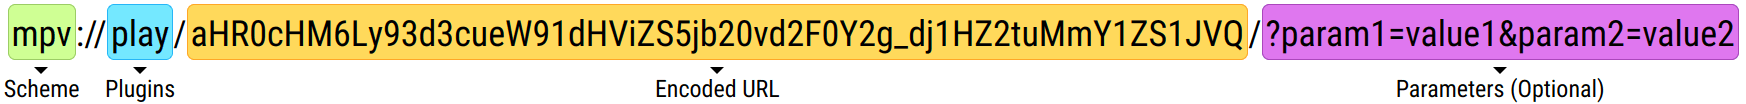
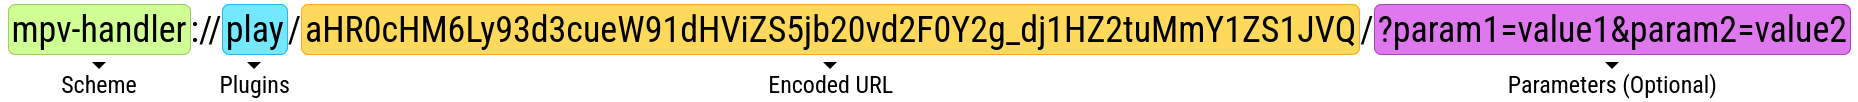
feat!: change protocol scheme to mpv-handler/mpv-handler-debug
To avoid conflicts with the mpv:// protocol provided by mpv.

BREAKING CHANGE: mpv:// and mpv-debug:// no longer available

diff --git a/share/proto.html b/share/proto.html
@@ -4,7 +4,7 @@
       body {
         height: fit-content;
         width: max-content;
-        padding: 5px 5px 32px 5px;
+        padding: 5px 5px 10px 5px;
       }
       p {
         font-family: "Roboto Condensed";
@@ -71,8 +71,8 @@
   </head>
   <body>
     <p>
-      <span class="scheme">mpv</span>://<span class="plugins">play</span>/<span
-        class="url"
+      <span class="scheme">mpv-handler</span>://<span class="plugins">play</span
+      >/<span class="url"
         >aHR0cHM6Ly93d3cueW91dHViZS5jb20vd2F0Y2g_dj1HZ2tuMmY1ZS1JVQ</span
       >/<span class="params">?param1=value1&amp;param2=value2</span>
     </p>

diff --git a/src/protocol.rs b/src/protocol.rs
@@ -3,8 +3,8 @@ use crate::plugins::Plugins;
 
 #[derive(Debug, PartialEq)]
 pub enum Schemes {
-    Mpv,
-    MpvDebug,
+    MpvHandler,
+    MpvHandlerDebug,
 }
 
 const SAFE_PROTOS: [&str; 11] = [
@@ -14,8 +14,8 @@ const SAFE_PROTOS: [&str; 11] = [
 /// Protocol of mpv-handler
 ///
 /// ```
-/// mpv://PLUGINS/ENCODED_URL/?PARAMETERS=VALUES
-/// mpv-debug://PLUGINS/ENCODED_URL/?PARAMETERS=VALUES
+/// mpv-handler://PLUGINS/ENCODED_URL/?PARAMETERS=VALUES
+/// mpv-handler-debug://PLUGINS/ENCODED_URL/?PARAMETERS=VALUES
 /// ```
 ///
 /// PLUGINS:
@@ -62,11 +62,11 @@ impl Protocol<'_> {
 
         let mut i: usize;
 
-        // Check scheme `mpv://` and `mpv-debug://`
+        // Check scheme `mpv-handler://` and `mpv-handler-debug://`
         (i, scheme) = if let Some(s) = arg.find("://") {
             match &arg[..s] {
-                "mpv" => (s + "://".len(), Schemes::Mpv),
-                "mpv-debug" => (s + "://".len(), Schemes::MpvDebug),
+                "mpv-handler" => (s + "://".len(), Schemes::MpvHandler),
+                "mpv-handler-debug" => (s + "://".len(), Schemes::MpvHandlerDebug),
                 _ => return Err(Error::IncorrectProtocol(arg.to_string())),
             }
         } else {
@@ -167,9 +167,9 @@ fn decode_url(data: &str) -> Result<String, Error> {
 fn test_protocol_parse() {
     // All parameters
     let proto =
-        Protocol::parse("mpv://play/aHR0cHM6Ly93d3cueW91dHViZS5jb20vd2F0Y2g_dj1HZ2tuMmY1ZS1JVQ/?cookies=www.youtube.com.txt&profile=low-latency&quality=1080p&v_codec=av01&v_title=VGl0bGU&subfile=aHR0cDovL2V4YW1wbGUuY29tL2VuLmFzcw&startat=233").unwrap();
+        Protocol::parse("mpv-handler://play/aHR0cHM6Ly93d3cueW91dHViZS5jb20vd2F0Y2g_dj1HZ2tuMmY1ZS1JVQ/?cookies=www.youtube.com.txt&profile=low-latency&quality=1080p&v_codec=av01&v_title=VGl0bGU&subfile=aHR0cDovL2V4YW1wbGUuY29tL2VuLmFzcw&startat=233").unwrap();
 
-    assert_eq!(proto.scheme, Schemes::Mpv);
+    assert_eq!(proto.scheme, Schemes::MpvHandler);
     assert_eq!(proto.plugin, Plugins::Play);
     assert_eq!(proto.url, "https://www.youtube.com/watch?v=Ggkn2f5e-IU");
     assert_eq!(proto.cookies, Some("www.youtube.com.txt"));
@@ -181,30 +181,32 @@ fn test_protocol_parse() {
     assert_eq!(proto.startat, Some("233"));
 
     // No parameter and last slash
-    let proto =
-        Protocol::parse("mpv://play/aHR0cHM6Ly93d3cueW91dHViZS5jb20vd2F0Y2g_dj1HZ2tuMmY1ZS1JVQ")
-            .unwrap();
+    let proto = Protocol::parse(
+        "mpv-handler://play/aHR0cHM6Ly93d3cueW91dHViZS5jb20vd2F0Y2g_dj1HZ2tuMmY1ZS1JVQ",
+    )
+    .unwrap();
 
-    assert_eq!(proto.scheme, Schemes::Mpv);
+    assert_eq!(proto.scheme, Schemes::MpvHandler);
     assert_eq!(proto.plugin, Plugins::Play);
     assert_eq!(proto.url, "https://www.youtube.com/watch?v=Ggkn2f5e-IU");
 
     // No parameter and protocol `mpv`
-    let proto =
-        Protocol::parse("mpv://play/aHR0cHM6Ly93d3cueW91dHViZS5jb20vd2F0Y2g_dj1HZ2tuMmY1ZS1JVQ/")
-            .unwrap();
-
-    assert_eq!(proto.scheme, Schemes::Mpv);
-    assert_eq!(proto.plugin, Plugins::Play);
-    assert_eq!(proto.url, "https://www.youtube.com/watch?v=Ggkn2f5e-IU");
-
-    // No parameter and protocol `mpv-debug`
     let proto = Protocol::parse(
-        "mpv-debug://play/aHR0cHM6Ly93d3cueW91dHViZS5jb20vd2F0Y2g_dj1HZ2tuMmY1ZS1JVQ",
+        "mpv-handler://play/aHR0cHM6Ly93d3cueW91dHViZS5jb20vd2F0Y2g_dj1HZ2tuMmY1ZS1JVQ/",
     )
     .unwrap();
 
-    assert_eq!(proto.scheme, Schemes::MpvDebug);
+    assert_eq!(proto.scheme, Schemes::MpvHandler);
+    assert_eq!(proto.plugin, Plugins::Play);
+    assert_eq!(proto.url, "https://www.youtube.com/watch?v=Ggkn2f5e-IU");
+
+    // No parameter and protocol `mpv-handler-debug`
+    let proto = Protocol::parse(
+        "mpv-handler-debug://play/aHR0cHM6Ly93d3cueW91dHViZS5jb20vd2F0Y2g_dj1HZ2tuMmY1ZS1JVQ",
+    )
+    .unwrap();
+
+    assert_eq!(proto.scheme, Schemes::MpvHandlerDebug);
     assert_eq!(proto.plugin, Plugins::Play);
     assert_eq!(proto.url, "https://www.youtube.com/watch?v=Ggkn2f5e-IU");
 }

diff --git a/src/plugins/play.rs b/src/plugins/play.rs
@@ -68,7 +68,7 @@ pub fn exec(proto: &Protocol, config: &Config) -> Result<(), Error> {
     }
 
     // Print binaries and options list (in debug build)
-    if &proto.scheme == &crate::protocol::Schemes::MpvDebug || cfg!(debug_assertions) {
+    if &proto.scheme == &crate::protocol::Schemes::MpvHandlerDebug || cfg!(debug_assertions) {
         // Print binaries
         println!("Binaries:");
 
@@ -109,7 +109,7 @@ pub fn exec(proto: &Protocol, config: &Config) -> Result<(), Error> {
     #[cfg(windows)]
     {
         use std::os::windows::process::CommandExt;
-        if &proto.scheme == &crate::protocol::Schemes::Mpv && !cfg!(debug_assertions) {
+        if &proto.scheme == &crate::protocol::Schemes::MpvHandler && !cfg!(debug_assertions) {
             command.creation_flags(0x08000000);
         }
     }

diff --git a/README.zh-Hans.md b/README.zh-Hans.md
@@ -20,8 +20,8 @@
 
 ### 协议名
 
-- `mpv`: 在没有命令行窗口的情况下运行 mpv-handler
-- `mpv-debug`: 在有命令行窗口的情况下运行 mpv-handler 以便于查看输出和错误
+- `mpv-handler`: 在没有命令行窗口的情况下运行 mpv-handler
+- `mpv-handler-debug`: 在有命令行窗口的情况下运行 mpv-handler 以便于查看输出和错误
 
 ### 插件 / Plugins
 
@@ -77,8 +77,8 @@ startat = [ Seconds (float) ]
 7. 注册 xdg-mime（感谢 [linuxuprising][linuxuprising] 的提醒）
 
    - ```
-     $ xdg-mime default mpv-handler.desktop x-scheme-handler/mpv
-     $ xdg-mime default mpv-handler-debug.desktop x-scheme-handler/mpv-debug
+     $ xdg-mime default mpv-handler.desktop x-scheme-handler/mpv-handler
+     $ xdg-mime default mpv-handler-debug.desktop x-scheme-handler/mpv-handler-debug
      ```
 
 8. 添加 `$HOME/.local/bin` 到环境变量 `PATH`

diff --git a/README.zh-Hant.md b/README.zh-Hant.md
@@ -20,8 +20,8 @@
 
 ### 協議名
 
-- `mpv`: 在沒有命令行窗口的情況下運行 mpv-handler
-- `mpv-debug`: 在有命令行窗口的情況下運行 mpv-handler 以便於查看輸出和錯誤
+- `mpv-handler`: 在沒有命令行窗口的情況下運行 mpv-handler
+- `mpv-handler-debug`: 在有命令行窗口的情況下運行 mpv-handler 以便於查看輸出和錯誤
 
 ### 插件 / Plugins
 
@@ -77,8 +77,8 @@ startat = [ Seconds (float) ]
 7. 註冊 xdg-mime（感謝 [linuxuprising][linuxuprising] 的提醒）
 
    - ```
-     $ xdg-mime default mpv-handler.desktop x-scheme-handler/mpv
-     $ xdg-mime default mpv-handler-debug.desktop x-scheme-handler/mpv-debug
+     $ xdg-mime default mpv-handler.desktop x-scheme-handler/mpv-handler
+     $ xdg-mime default mpv-handler-debug.desktop x-scheme-handler/mpv-handler-debug
      ```
 
 8. 添加 `$HOME/.local/bin` 到環境變量 `PATH`

diff --git a/README.md b/README.md
@@ -20,8 +20,8 @@ Please use it with userscript:
 
 ### Scheme
 
-- `mpv`: Run mpv-handler without console window
-- `mpv-debug`: Run mpv-handler with console window to view outputs and errors
+- `mpv-handler`: Run mpv-handler without console window
+- `mpv-handler-debug`: Run mpv-handler with console window to view outputs and errors
 
 ### Plugins
 
@@ -77,8 +77,8 @@ startat = [ Seconds (float) ]
 7. Register xdg-mime (thanks for the [linuxuprising][linuxuprising] reminder)
 
    - ```
-     $ xdg-mime default mpv-handler.desktop x-scheme-handler/mpv
-     $ xdg-mime default mpv-handler-debug.desktop x-scheme-handler/mpv-debug
+     $ xdg-mime default mpv-handler.desktop x-scheme-handler/mpv-handler
+     $ xdg-mime default mpv-handler-debug.desktop x-scheme-handler/mpv-handler-debug
      ```
 
 8. Add `$HOME/.local/bin` to your environment variable `PATH`
